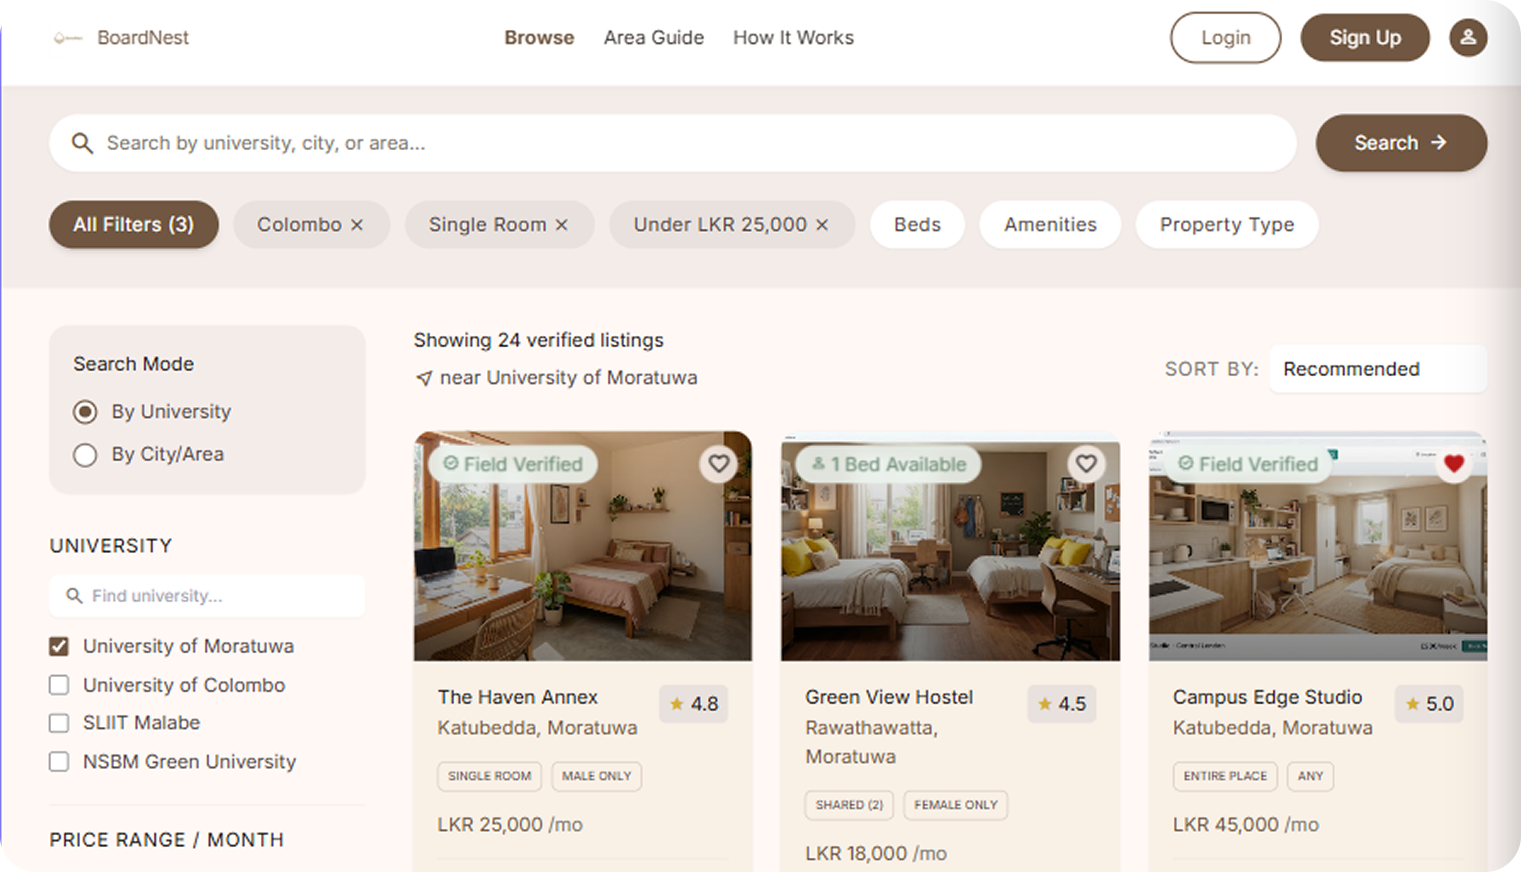
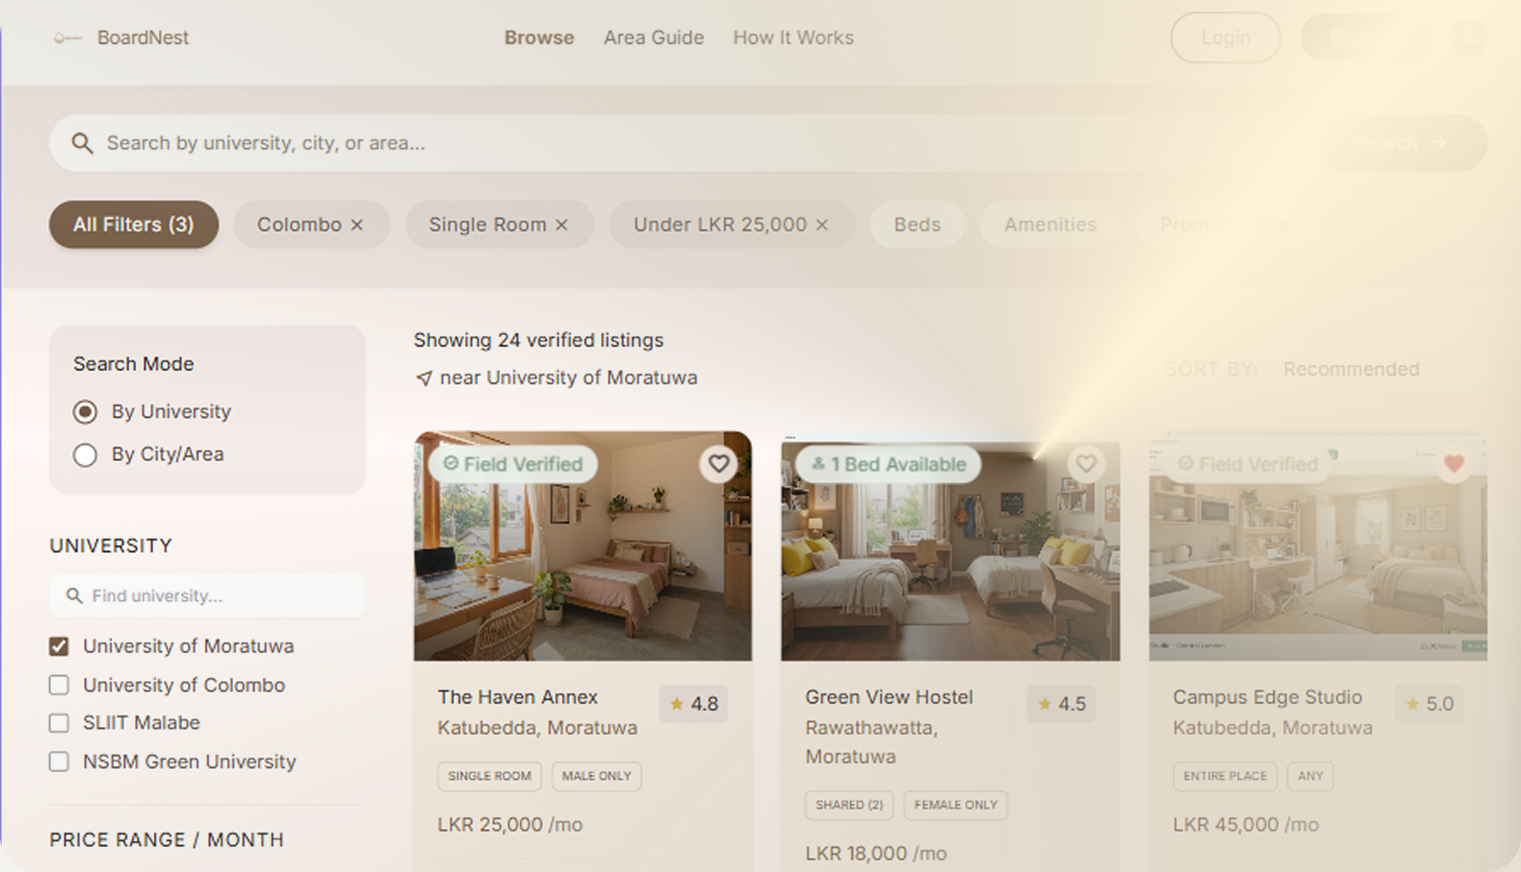
refinements to landing page

diff --git a/index.css b/index.css
@@ -139,10 +139,22 @@ img {
   background: var(--sand);
 }
 
+.browse-intro::after {
+  content: "";
+  position: absolute;
+  inset: 0;
+  z-index: 2;
+  pointer-events: none;
+  background: url("public/assets/uploads/angulra-gradient-above.png") center 58% / cover no-repeat;
+  opacity: 0.58;
+}
+
 .intro-copy {
   position: absolute;
+  z-index: 4;
   top: 83px;
-  right: 79px;
+  right: 170px;
+  width: 880px;
   margin: 0;
   color: #5d514c;
   font-size: 16px;
@@ -153,22 +165,22 @@ img {
 
 .browse-intro h2 {
   position: absolute;
-  z-index: 3;
+  z-index: 4;
   top: 247px;
-  left: 50%;
-  width: 990px;
-  transform: translateX(-28.7%);
+  right: 170px;
+  width: 880px;
   margin: 0;
   color: #49413f;
   font-size: clamp(45px, 4.3vw, 65px);
   font-weight: 500;
   line-height: 0.87;
   letter-spacing: 0;
-  text-align: center;
+  text-align: right;
 }
 
 .browser-shot {
   position: absolute;
+  z-index: 1;
   top: 267px;
   left: 67px;
   width: 1521px;
@@ -282,11 +294,25 @@ img {
 }
 
 .final-pitch {
+  position: relative;
+  overflow: hidden;
   min-height: 882px;
   padding-top: 66px;
-  background:
-    url("public/assets/uploads/angulra-gradient-above.png") center top / cover no-repeat,
-    #b79d84;
+  background: #b79d84;
+}
+
+.final-pitch::before {
+  content: "";
+  position: absolute;
+  inset: 0;
+  z-index: 0;
+  pointer-events: none;
+  background: url("public/assets/uploads/angulra-gradient-above.png") center top / cover no-repeat;
+}
+
+.final-pitch > * {
+  position: relative;
+  z-index: 1;
 }
 
 .small-note {
@@ -357,11 +383,25 @@ img {
 }
 
 .questions {
+  position: relative;
+  overflow: hidden;
   min-height: 820px;
   padding-top: 73px;
-  background:
-    url("public/assets/uploads/angular-gradient below.png") center bottom / cover no-repeat,
-    #c3ad92;
+  background: #c3ad92;
+}
+
+.questions::before {
+  content: "";
+  position: absolute;
+  inset: 0;
+  z-index: 0;
+  pointer-events: none;
+  background: url("public/assets/uploads/angular-gradient below.png") center bottom / cover no-repeat;
+}
+
+.questions > * {
+  position: relative;
+  z-index: 1;
 }
 
 .questions h2 {
@@ -544,13 +584,14 @@ img {
   .intro-copy {
     position: static;
     padding: 54px 24px 0;
-    text-align: center;
+    width: auto;
+    text-align: right;
   }
 
   .browse-intro h2 {
     top: 178px;
-    width: calc(100% - 34px);
-    transform: translateX(-50%);
+    right: 24px;
+    width: calc(100% - 48px);
     font-size: clamp(34px, 8vw, 56px);
   }
 
